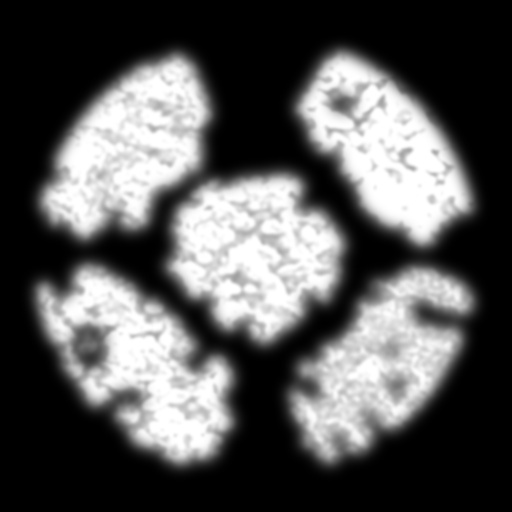
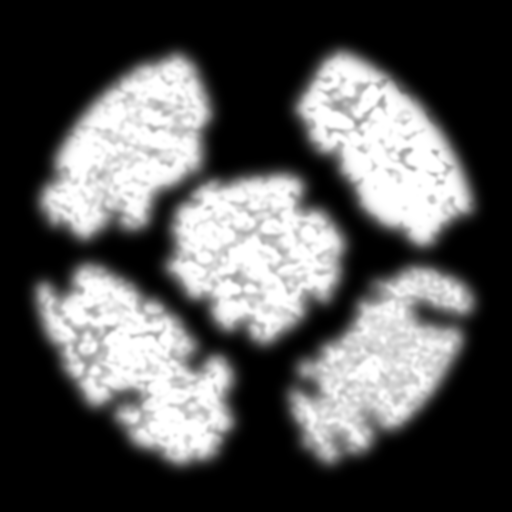
首页：滚动与指针反馈、穿膜衔接、穹顶之下的隆起大陆
- 视线全程跟随指针；第一幕镜头明显前推并降到海面；镜头与文字跟随滚动带滑行。
- 穿膜：视角只轻微收窄，穿过后在约 12% 滚动距离里慢慢撑开。
- 穹顶内的五大陆改为从真实海面隆起的地形（地理馆同一张高度图，只取航海图陆地颜色），
  铺到帷幕边缘；进入后穹顶扩大到 1.3 倍；第四幕从近乎正上方俯看。
- 高度图补洞：与外海不连通的空洞补成陆地。

Changed region(s): [[0.125, 0.625, 0.2188, 0.75], [0.7188, 0.6562, 0.8125, 0.7812], [0.625, 0.1562, 0.7188, 0.25]]

diff --git a/src/gl/scenes/veil.ts b/src/gl/scenes/veil.ts
@@ -18,7 +18,7 @@ import type { WebGLRenderer } from 'three';
 import type { GLScene } from '../stage';
 import type { Tier } from '../tier';
 import {
-  chartFragment, chartVertex, finishShader, lampFragment, membraneFragment, membraneVertex, seaFragment, seaVertex, skyFragment, skyVertex, starFragment, starVertex,
+  finishShader, lampFragment, landFragment, landVertex, membraneFragment, membraneVertex, seaFragment, seaVertex, skyFragment, skyVertex, starFragment, starVertex,
 } from './veil-shaders';
 
 const R = 60; // 穹顶半径（场景单位）
@@ -35,8 +35,10 @@ export interface VeilScene extends GLScene { setProgress(p: number, immediate?: 
 /** 第四幕在航海图上标注的地名：u、v 为图上的百分比位置（与地理馆航海图一致）。 */
 export interface ChartPlace { el: HTMLElement; u: number; v: number }
 
-const CHART = 52; // 航海图边长（场景单位），铺在穹顶中央
-const CHART_Y = 1.7; // 略高于浪尖
+const INNER = 1.3; // 进入后穹顶扩大到外面看到的 1.3 倍：「内部面积略大于从外部估算的规模」
+const LAND = 2 * R * INNER * 0.9; // 陆地图边长：铺到帷幕边缘
+const LAND_AMP = 3.4; // 陆地最高处
+const LAND_Y = -0.6; // 陆地基准略低于海面，海岸自然没入浪里
 
 export function createVeilScene(renderer: WebGLRenderer, startTier: Tier, places: ChartPlace[] = []): VeilScene {
   let tier = startTier;
@@ -143,23 +145,32 @@ export function createVeilScene(renderer: WebGLRenderer, startTier: Tier, places
   membrane.renderOrder = 3;
   scene.add(membraneFar, membrane);
 
-  // 五大陆航海图（复用地理馆的航海图）。贴图载入前不显示。
-  const chartUniforms = { uMap: { value: null as Texture | null }, uInside: shared.uInside, uReady: { value: 0 }, uGold: shared.uGold, uNight: { value: lin('#03100e') } };
-  const chartGeometry = new PlaneGeometry(CHART, CHART);
-  chartGeometry.rotateX(-Math.PI / 2);
-  const chart = new Mesh(chartGeometry, new ShaderMaterial({ uniforms: chartUniforms, vertexShader: chartVertex, fragmentShader: chartFragment, transparent: true, depthWrite: false }));
-  chart.position.y = CHART_Y;
+  // 穹顶之下的五大陆：地理馆浮雕同一张高度图隆起成地形，颜色取航海图上陆地的部分；两张图都载入后才显示。
+  const landUniforms = {
+    uMap: { value: null as Texture | null }, uHeight: { value: null as Texture | null }, uTexel: { value: new Vector2(1 / 512, 1 / 512) },
+    uAmp: { value: LAND_AMP }, uSize: { value: LAND }, uInside: shared.uInside, uReady: { value: 0 },
+    uMoonDir: shared.uMoonDir, uMoon: shared.uMoon, uGold: shared.uGold, uHorizon: shared.uHorizon,
+  };
+  const landGeometry = new PlaneGeometry(LAND, LAND, tier === 'full' ? 300 : 160, tier === 'full' ? 300 : 160);
+  landGeometry.rotateX(-Math.PI / 2);
+  const chart = new Mesh(landGeometry, new ShaderMaterial({ uniforms: landUniforms, vertexShader: landVertex, fragmentShader: landFragment, transparent: true }));
+  chart.position.y = LAND_Y;
   chart.renderOrder = 1;
   scene.add(chart);
-  let disposed = false;
-  new TextureLoader().load('assets/nautical-chart-1254.webp', tex => {
+  let disposed = false, loaded = 0;
+  const loader = new TextureLoader();
+  const done = () => { if (++loaded === 2) landUniforms.uReady.value = 1; };
+  loader.load('assets/nautical-chart-1254.webp', tex => {
     if (disposed) { tex.dispose(); return; }
     tex.colorSpace = SRGBColorSpace;
     tex.anisotropy = Math.min(8, renderer.capabilities.getMaxAnisotropy());
-    chartUniforms.uMap.value = tex;
-    chartUniforms.uReady.value = 1;
+    landUniforms.uMap.value = tex; done();
   });
-  const placeWorld = places.map(pl => new Vector3((pl.u / 100 - 0.5) * CHART, CHART_Y, (pl.v / 100 - 0.5) * CHART));
+  loader.load('assets/data/nautical-height.png', tex => {
+    if (disposed) { tex.dispose(); return; }
+    landUniforms.uHeight.value = tex; done();
+  });
+  const placeWorld = places.map(pl => new Vector3((pl.u / 100 - 0.5) * LAND, LAND_Y + LAND_AMP * 0.8, (pl.v / 100 - 0.5) * LAND));
   const projected = new Vector3();
 
   // 渲染管线：完整档先把「不含薄膜的场景」画进半分辨率离屏目标供折射采样，再整体渲染并加泛光。
@@ -188,11 +199,12 @@ export function createVeilScene(renderer: WebGLRenderer, startTier: Tier, places
   let rippleIndex = 0, lastRipple = 0, lastPoint: Vector3 | null = null;
   const canvas = renderer.domElement;
   const onPointer = (e: PointerEvent) => {
-    if (shared.uReveal.value < 0.35 || e.pointerType === 'touch') return;
+    if (e.pointerType === 'touch') return;
     const rect = canvas.getBoundingClientRect();
     if (!rect.width) return;
     ndc.set(((e.clientX - rect.left) / rect.width) * 2 - 1, -((e.clientY - rect.top) / rect.height) * 2 + 1);
-    pointer.set(ndc.x, ndc.y);
+    pointer.set(Math.max(-1, Math.min(1, ndc.x)), Math.max(-1, Math.min(1, ndc.y))); // 视线跟随：全程都记录
+    if (shared.uReveal.value < 0.35) return; // 涟漪只在薄膜显形后出现
     const now = shared.uTime.value;
     if (now - lastRipple < 0.14) return;
     raycaster.setFromCamera(ndc, camera);
@@ -212,6 +224,7 @@ export function createVeilScene(renderer: WebGLRenderer, startTier: Tier, places
   // 相机路径
   let width = 1, height = 1, target = 0, shown = 0, first = true;
   const camPos = new Vector3(), look = new Vector3(), lookIn = new Vector3(), lookDown = new Vector3();
+  const pointerS = new Vector2(); // 平滑后的指针
   const deg = Math.PI / 180;
   let placesAlpha = 0;
   const place = (p: number, time: number) => {
@@ -219,50 +232,50 @@ export function createVeilScene(renderer: WebGLRenderer, startTier: Tier, places
     const portrait = aspect < 1;
     const back = aspect < 1.25 ? Math.min(1.35, 1.25 / aspect) : 1; // 竖屏时后退，让穹顶放得下
     const fov0 = portrait ? 70 : 46;
-    const a1 = easeInOut(smooth(0, 0.2, p)), a2 = easeInOut(smooth(0.2, 0.45, p));
-    const a3 = easeInOut(smooth(0.45, 0.7, p)), a4 = easeInOut(smooth(0.7, 0.93, p));
-    const z2 = (158 - 8 * a1 - 16 * a2) * back; // 第二幕结束时的距离
-    const y2 = 3.4 + 1.2 * a2;
-    // 三幕分三段：快速推近到薄膜前（.45–.56）→ 贴着薄膜慢慢穿过（.56–.65）→ 进入穹顶内 z=24（.65–.70）。
-    // 穿膜那段占约 9% 的滚动距离，让织纹放大、涟漪荡开的过程看得清楚。
-    const k1 = easeInOut(smooth(0.45, 0.56, p)), k2 = smooth(0.56, 0.65, p), k3 = easeInOut(smooth(0.65, 0.7, p));
-    const z3 = z2 + (70 - z2) * k1 + (52 - 70) * k2 + (24 - 52) * k3;
-    const y3 = y2 + (7.5 - y2) * k1;
-    const top = portrait ? new Vector3(0, 53, 16) : new Vector3(0, 51, 22);
+    const a1 = easeInOut(smooth(0, 0.2, p)), a2 = easeInOut(smooth(0.2, 0.45, p)), a4 = easeInOut(smooth(0.7, 0.93, p));
+    // 一幕：一开始滚动，镜头就明显向前推、缓缓降到贴近海面；二幕继续推近，整座穹顶落进画面。
+    const z2 = (190 - 36 * a1 - 20 * a2) * back;
+    const y2 = 11 - 7.6 * a1 + 1.2 * a2;
+    // 三幕：推近到薄膜前（.45–.56）→ 贴着薄膜慢慢穿过（.56–.65，约 9% 滚动）→ 进入穹顶（.65–.72）
+    const k1 = easeInOut(smooth(0.45, 0.56, p)), k2 = smooth(0.56, 0.65, p), k3 = easeInOut(smooth(0.65, 0.72, p));
+    const z3 = z2 + (70 - z2) * k1 + (50 - 70) * k2 + (26 - 50) * k3;
+    const y3 = y2 + (7.5 - y2) * k1 + 7 * k3; // 进入后抬高一些，从陆地上方掠过
+    // 四幕：升到扩大后的穹顶内高处俯瞰（离球心不超过扩大后的半径）
+    // 几乎从正上方俯看，视线落在陆地中心，五块大陆都在画面里
+    const top = portrait ? new Vector3(0, 72, 12) : new Vector3(0, 66, 26);
     const sway = Math.sin(time * 0.21) * 0.35 * (1 - a4);
-    camPos.set(
-      sway + pointer.x * (tier === 'full' ? 1.2 : 0) * (1 - a3),
-      y3 + (top.y - y3) * a4 + Math.sin(time * 0.33) * 0.12 + pointer.y * 0.4 * (1 - a3),
-      z3 + (top.z - z3) * a4,
-    );
-    // 视线：二幕看向穹顶上部 → 三幕平视穹顶深处 → 四幕俯视航海图中心
+    camPos.set(sway, y3 + (top.y - y3) * a4 + Math.sin(time * 0.33) * 0.12 * (1 - a4), z3 + (top.z - z3) * a4);
     look.set(0, 15 + 3 * a2, 0);
-    lookIn.set(0, 8, -80);
-    lookDown.set(0, 0, portrait ? 0 : -4);
+    lookIn.set(0, 8, -90);
+    lookDown.set(0, 0, portrait ? 2 : 3);
     look.lerp(lookIn, k1).lerp(lookDown, a4);
 
-    // 滑动变焦：穿过薄膜之前保持穹顶在画面中的大小（视角随距离收窄、背景被拉长）；
-    // 穿过之后视角迅速撑开，表现内部比外面看上去更大；俯瞰时略收。
-    const dist = camPos.length();
-    const startDist = Math.hypot(z2, y2);
-    const dolly = 2 * Math.atan(Math.tan((fov0 * deg) / 2) * Math.min(1, dist / startDist)) / deg;
-    const crossT = smooth(R + 3, R - 9, dist) * a3; // 0：尚在薄膜外；1：已在内部
-    const wide = portrait ? 82 : 70;
-    let fov = dolly + (wide - dolly) * easeInOut(crossT);
-    fov += ((portrait ? 64 : 54) - fov) * a4;
+    // 视角：推近时只轻微收窄；穿过之后在一段滚动距离里慢慢撑开（不再一下闪进去）；俯瞰时略收
+    const wide = portrait ? 82 : 66;
+    let fov = fov0 - 6 * k1;
+    fov += (wide - fov) * easeInOut(smooth(0.6, 0.72, p));
+    fov += ((portrait ? 96 : 60) - fov) * a4;
     camera.fov = fov;
     camera.aspect = aspect;
     camera.position.copy(camPos);
     camera.lookAt(look);
+    // 视线跟随指针：轻微偏转，俯瞰时减半
+    const follow = 1 - 0.5 * a4;
+    camera.rotateY(-pointerS.x * 0.05 * follow);
+    camera.rotateX(pointerS.y * 0.03 * follow);
     camera.updateProjectionMatrix();
 
+    const dist = camPos.length();
     shared.uReveal.value = smooth(0.22, 0.42, p);
-    shared.uInside.value = smooth(R + 1, R - 6, dist);
-    // 贴近薄膜时折射加剧，穿过的一瞬全屏荡开
-    const near = Math.exp(-Math.pow((dist - R) / 7, 2));
-    membraneUniforms.uNear.value = Math.exp(-Math.pow((dist - R) / 16, 2)) * a3;
+    // 进入之后，穹顶悄悄扩大到 1.3 倍；是否在内部按扩大后的半径判断
+    const grow = 1 + (INNER - 1) * easeInOut(smooth(0.62, 0.76, p));
+    shared.uInside.value = smooth(R * grow + 1, R * grow - 6, dist);
+    membrane.scale.setScalar(grow);
+    membraneFar.scale.setScalar(grow);
+    const near = Math.exp(-Math.pow((dist - R) / 7, 2)) * (1 - smooth(0.62, 0.66, p));
+    membraneUniforms.uNear.value = Math.exp(-Math.pow((dist - R) / 16, 2)) * smooth(0.45, 0.5, p) * (1 - smooth(0.66, 0.72, p));
     membraneUniforms.uRefract.value = tier === 'full' ? shared.uReveal.value * (1 + 5 * near) * (1 - shared.uInside.value) : 0;
-    finish.uniforms.uCross.value = near * smooth(0.45, 0.55, p) * (1 - smooth(0.72, 0.8, p));
+    finish.uniforms.uCross.value = near * smooth(0.45, 0.55, p) * 0.8;
     placesAlpha = smooth(0.8, 0.88, p) * (1 - smooth(0.95, 0.99, p));
   };
 
@@ -293,7 +306,9 @@ export function createVeilScene(renderer: WebGLRenderer, startTier: Tier, places
     },
     frame(dt, time) {
       renderer.setClearColor(0x07110f, 1); // 渲染器与其他场景共用，每帧设回自己的底色
-      shown = first ? target : shown + (target - shown) * (1 - Math.exp(-dt * 7));
+      // 镜头跟随滚动更柔和：滚轮一格一格的跳动被抹平成滑行
+      shown = first ? target : shown + (target - shown) * (1 - Math.exp(-dt * 3.4));
+      pointerS.lerp(pointer, 1 - Math.exp(-dt * 2.5));
       first = false;
       shared.uTime.value = time;
       finish.uniforms.uTime.value = time;
@@ -316,7 +331,8 @@ export function createVeilScene(renderer: WebGLRenderer, startTier: Tier, places
     dispose() {
       disposed = true;
       removeEventListener('pointermove', onPointer);
-      chartUniforms.uMap.value?.dispose();
+      landUniforms.uMap.value?.dispose();
+      landUniforms.uHeight.value?.dispose();
       composer.dispose();
       sceneTarget?.dispose();
       scene.traverse(o => {

diff --git a/src/gl/scenes/veil-shaders.ts b/src/gl/scenes/veil-shaders.ts
@@ -252,25 +252,45 @@ void main(){
 }`,
 };
 
-// 穹顶之下的五大陆航海图：铺在海面上，圆形遮罩，夜色中压暗，中心一盏暖光，墨线泛金。
-// 只在镜头进入穹顶后显现（uInside），从外面看不到。
-export const chartVertex = /* glsl */ `
+// 穹顶之下的五大陆：用地理馆浮雕的同一张高度图，让陆地从真实的海面上隆起成地形，
+// 颜色取航海图上陆地部分（海的部分丢弃，露出下面真实的海）。只在镜头进入穹顶后显现（uInside）。
+export const landVertex = /* glsl */ `
+uniform sampler2D uHeight;
+uniform float uAmp;
 varying vec2 vUv;
-void main(){ vUv = uv; gl_Position = projectionMatrix * modelViewMatrix * vec4(position, 1.0); }`;
-export const chartFragment = /* glsl */ `
-uniform sampler2D uMap;
-uniform float uInside, uReady;
-uniform vec3 uGold, uNight;
-varying vec2 vUv;
+varying vec3 vWorld;
 void main(){
-  vec2 c = vUv - 0.5;
-  float r = length(c) * 2.0;
-  float mask = 1.0 - smoothstep(0.9, 0.985, r);
+  vUv = uv;
+  vec3 p = position;
+  p.y += texture2D(uHeight, uv).r * uAmp;
+  vec4 w = modelMatrix * vec4(p, 1.0);
+  vWorld = w.xyz;
+  gl_Position = projectionMatrix * viewMatrix * w;
+}`;
+export const landFragment = /* glsl */ `
+uniform sampler2D uMap, uHeight;
+uniform vec2 uTexel;
+uniform float uAmp, uSize, uInside, uReady;
+uniform vec3 uMoonDir, uMoon, uGold, uHorizon;
+varying vec2 vUv;
+varying vec3 vWorld;
+void main(){
+  float h = texture2D(uHeight, vUv).r;
+  float land = smoothstep(0.05, 0.16, h);
+  if (land < 0.01 || uInside < 0.001) discard;
+  float hx = texture2D(uHeight, vUv + vec2(uTexel.x, 0.0)).r - texture2D(uHeight, vUv - vec2(uTexel.x, 0.0)).r;
+  float hz = texture2D(uHeight, vUv + vec2(0.0, uTexel.y)).r - texture2D(uHeight, vUv - vec2(0.0, uTexel.y)).r;
+  float k = uAmp / (2.0 * uSize);
+  vec3 N = normalize(vec3(-hx * k / uTexel.x, 1.0, hz * k / uTexel.y));
   vec3 tex = texture2D(uMap, vUv).rgb;
-  float lamp = 1.0 - smoothstep(0.0, 1.05, r);
-  vec3 col = tex * (0.2 + 0.46 * lamp);
-  float ink = 1.0 - smoothstep(0.08, 0.32, dot(tex, vec3(0.3333)));
-  col += uGold * ink * 0.22 * lamp;
-  col = mix(uNight, col, smoothstep(1.0, 0.75, r));
-  gl_FragColor = vec4(col, mask * uInside * uReady);
+  // 月光从侧面照出山脊；头顶织就的穹顶洒下一层很淡的金光
+  vec3 L = normalize(vec3(uMoonDir.x, 0.85, uMoonDir.z));
+  float lit = max(dot(N, L), 0.0);
+  vec3 col = tex * (0.2 + 0.62 * lit) * vec3(0.8, 0.88, 1.0) + tex * uGold * 0.1;
+  // 海岸：浅浅一圈月白的浪花
+  float shore = smoothstep(0.05, 0.1, h) * (1.0 - smoothstep(0.1, 0.17, h));
+  col += uMoon * shore * 0.18;
+  // 远处融进夜色
+  col = mix(col, uHorizon * 0.8, smoothstep(90.0, 220.0, distance(cameraPosition, vWorld)) * 0.7);
+  gl_FragColor = vec4(col, land * uInside * uReady);
 }`;

diff --git a/src/gl/journey.ts b/src/gl/journey.ts
@@ -38,7 +38,7 @@ export function mountJourney(ctx: RouteContext) {
     const tl = gsap.timeline({
       defaults: { ease: 'none' },
       scrollTrigger: {
-        trigger: root, start: 'top top', end: 'bottom bottom', scrub: true,
+        trigger: root, start: 'top top', end: 'bottom bottom', scrub: 0.5, // 文字与镜头一样带一点滑行
         onUpdate: self => scene?.setProgress(self.progress * JOURNEY_END),
       },
     });
